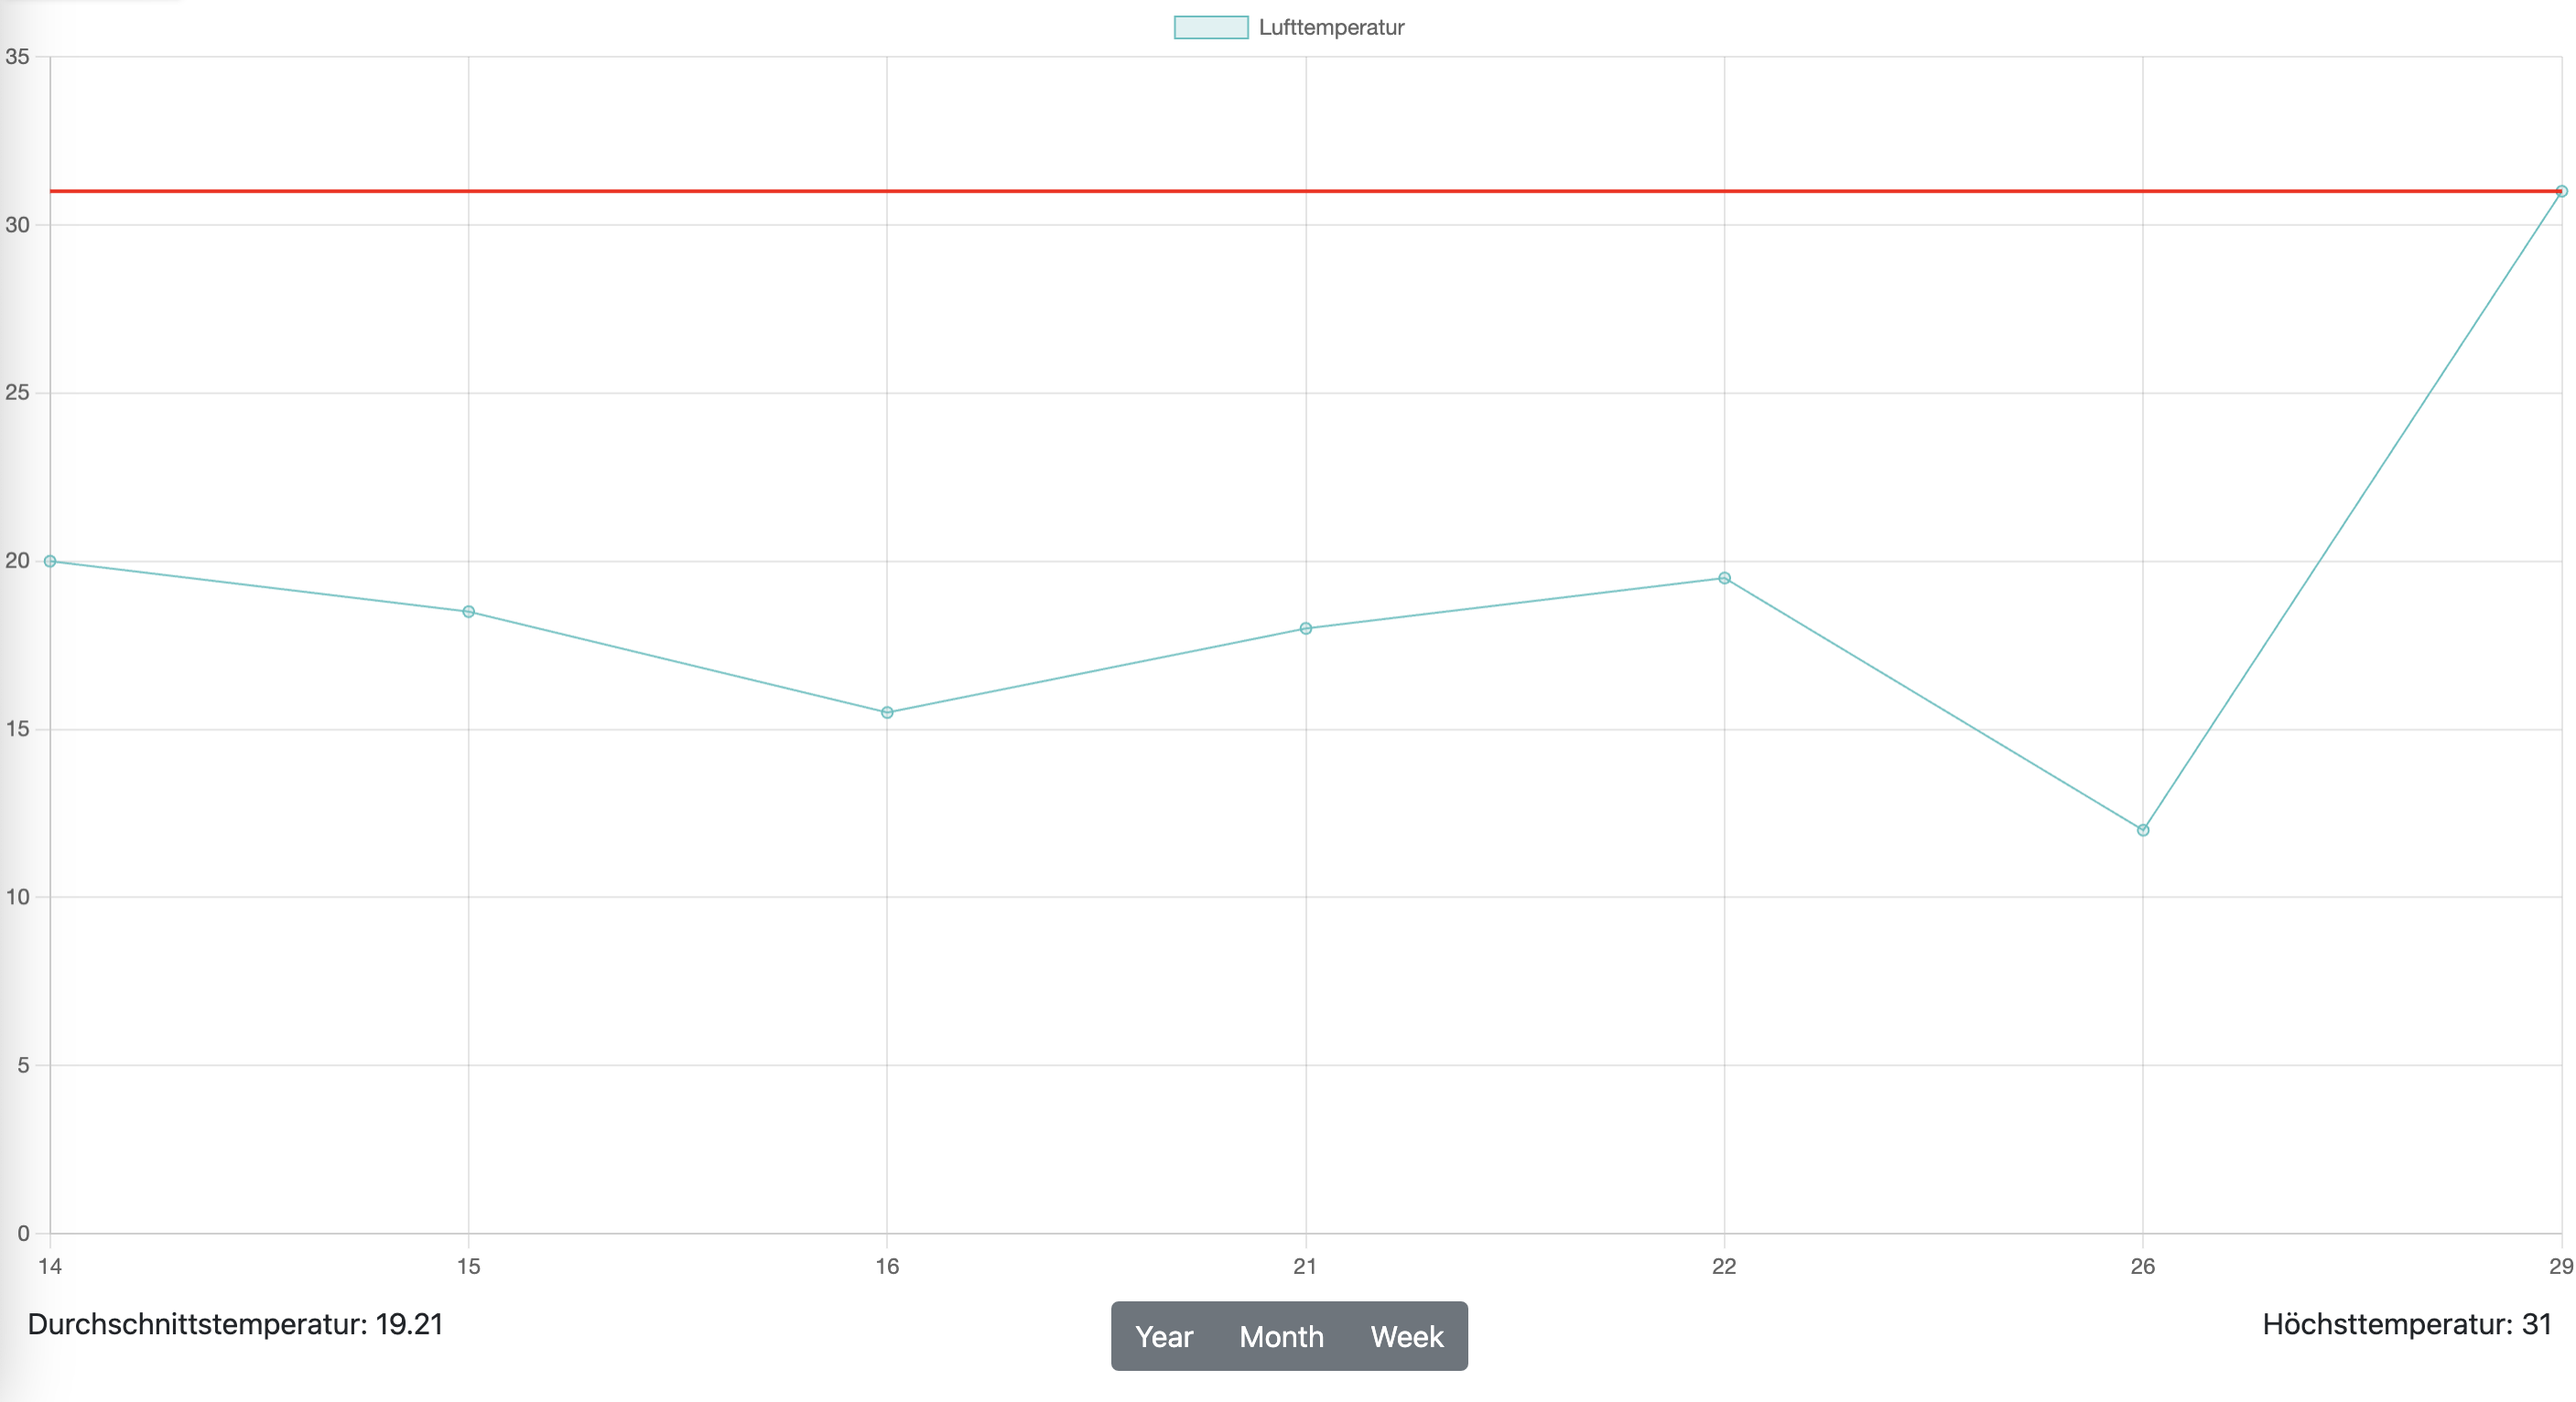
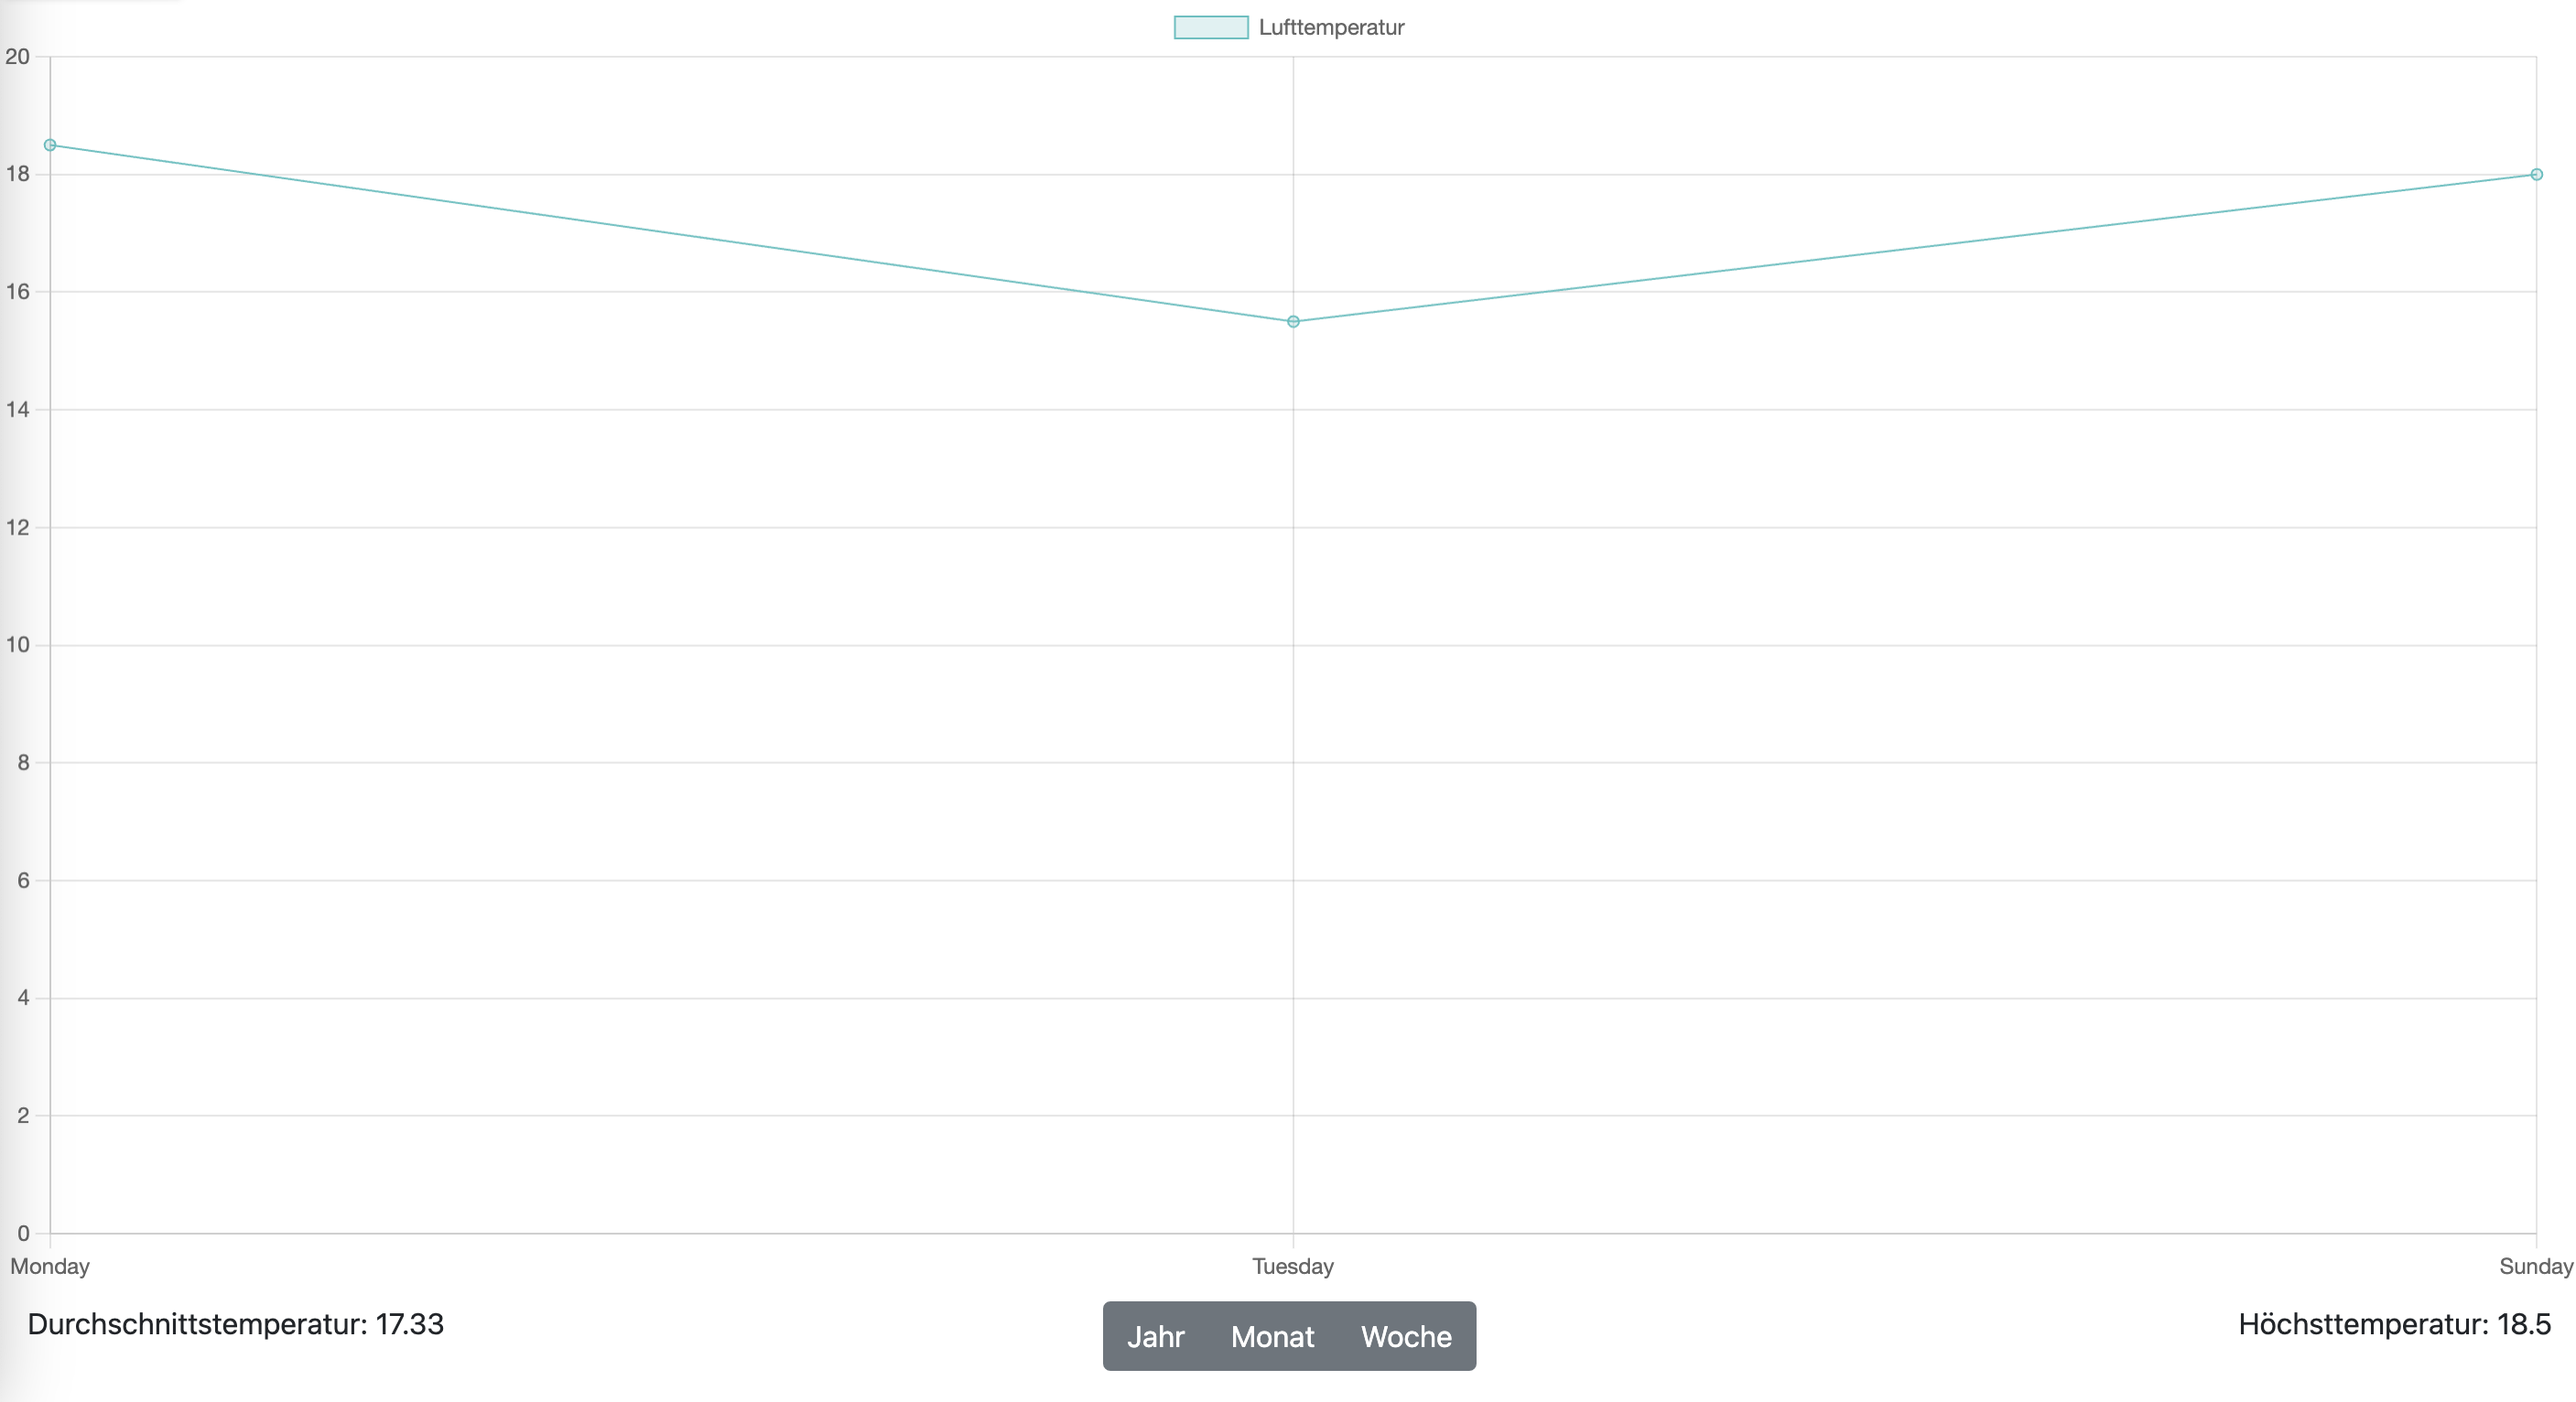
language change

diff --git a/src/main/resources/templates/index.html b/src/main/resources/templates/index.html
@@ -18,9 +18,9 @@
             </div>
             <div class="col text-center">
                 <div class="btn-group" role="group" aria-label="Basic example">
-                    <button onclick="getByEnum('YEAR')" type="button" class="btn btn-secondary">Year</button>
-                    <button onclick="getByEnum('MONTH')" type="button" class="btn btn-secondary">Month</button>
-                    <button onclick="getByEnum('WEEK')" type="button" class="btn btn-secondary">Week</button>
+                    <button onclick="getByEnum('YEAR')" type="button" class="btn btn-secondary">Jahr</button>
+                    <button onclick="getByEnum('MONTH')" type="button" class="btn btn-secondary">Monat</button>
+                    <button onclick="getByEnum('WEEK')" type="button" class="btn btn-secondary">Woche</button>
                 </div>
             </div>
             <div class="col text-right">
